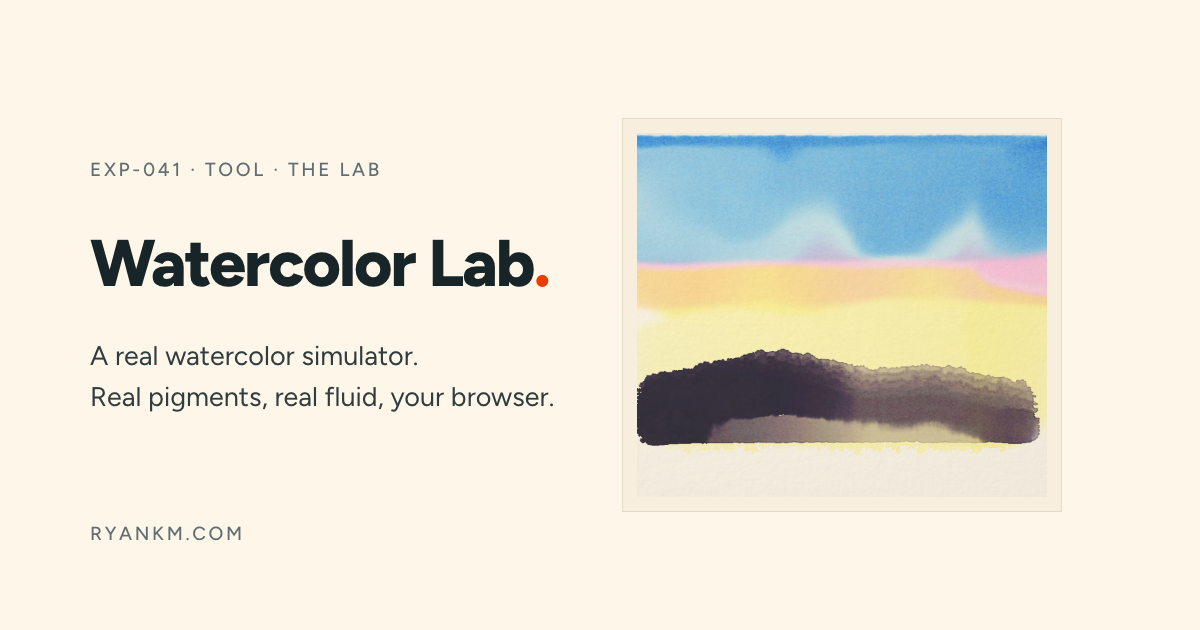
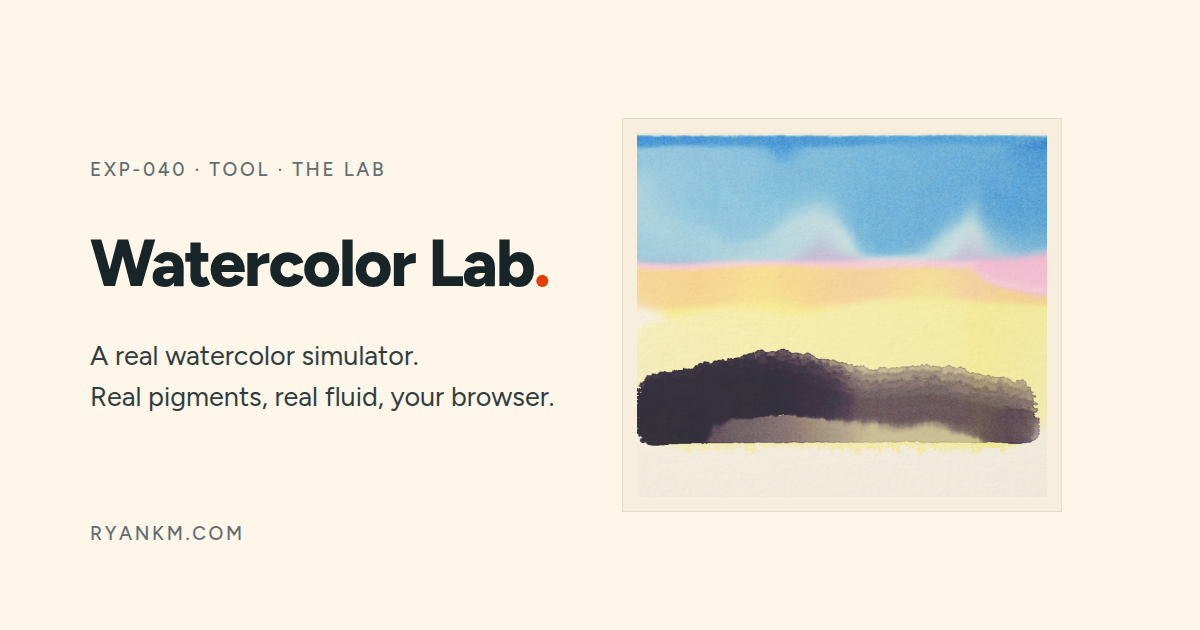
Renumber to EXP-040, closing the ledger gap
Shipped as EXP-041 with EXP-040 never assigned; Ryan called it before
the custom domain went live, so the number changes while nothing has
settled on it. Page chrome, metadata, README and the regenerated OG
card all say EXP-040 now; the session log keeps the old number as
history. 492 checks, typecheck and build green.

Claude-Session: https://claude.ai/code/session_01K7qmeTrMGgdLvWV4qkdXH8

Changed region(s): [[0.0617, 0.5429, 0.4625, 0.6635], [0.0925, 0.2413, 0.3392, 0.3016], [0.0925, 0.8143, 0.185, 0.8746]]

diff --git a/src/main.ts b/src/main.ts
@@ -14,7 +14,7 @@ declare global {
 }
 
 // --- The experiment page shell -------------------------------------------
-// This tool is EXP-041 in the Lab on ryankm.com and it is hosted here rather
+// This tool is EXP-040 in the Lab on ryankm.com and it is hosted here rather
 // than there, so the page has to do the work the site's /lab/<slug> route
 // normally does: the trail back up, the record voice (number, kind, state,
 // then the stack), the claim in display type, and the lede. Same order, same
@@ -24,7 +24,7 @@ function experimentHead(): HTMLElement {
   const meta = el(
     "div",
     { class: "exp-meta" },
-    el("span", { class: "label label-strong" }, "EXP-041"),
+    el("span", { class: "label label-strong" }, "EXP-040"),
     el("span", { class: "label" }, "tool"),
     el(
       "span",
@@ -115,7 +115,7 @@ function footer(): HTMLElement {
       el(
         "p",
         { class: "footer-credit" },
-        el("a", { class: "arrow-link", href: LAB_URL }, "EXP-041 in the Lab at ryankm.com", el("span", { "aria-hidden": "true" }, "→"))
+        el("a", { class: "arrow-link", href: LAB_URL }, "EXP-040 in the Lab at ryankm.com", el("span", { "aria-hidden": "true" }, "→"))
       )
     )
   );

diff --git a/index.html b/index.html
@@ -6,7 +6,7 @@
     <title>Watercolor Lab, a real watercolor simulator | Ryan McCarty</title>
     <meta
       name="description"
-      content="Paint with real pigments on real physics: shallow-water fluid dynamics after Curtis et al. (SIGGRAPH 1997) and Kubelka-Munk optics. Wet-on-wet, glazing, granulation, backruns, dry brush, salt. Runs entirely in your browser. EXP-041 in the Lab at ryankm.com."
+      content="Paint with real pigments on real physics: shallow-water fluid dynamics after Curtis et al. (SIGGRAPH 1997) and Kubelka-Munk optics. Wet-on-wet, glazing, granulation, backruns, dry brush, salt. Runs entirely in your browser. EXP-040 in the Lab at ryankm.com."
     />
     <link rel="canonical" href="https://watercolor.ryankm.com/" />
     <meta name="author" content="Ryan McCarty" />
@@ -42,7 +42,7 @@
         "@context": "https://schema.org",
         "@type": "SoftwareApplication",
         "name": "Watercolor Lab",
-        "alternateName": "EXP-041",
+        "alternateName": "EXP-040",
         "url": "https://watercolor.ryankm.com/",
         "applicationCategory": "DesignApplication",
         "operatingSystem": "Any browser with WebGL2",

diff --git a/src/styles.css b/src/styles.css
@@ -1,6 +1,6 @@
 /* Watercolor Lab, wearing the ryankm.com design system.
  *
- * This tool is EXP-041 in the Lab and is hosted on its own subdomain, so the
+ * This tool is EXP-040 in the Lab and is hosted on its own subdomain, so the
  * page does the work the site's /lab/<slug> route normally does: the trail
  * back up, the record voice (number, kind, state, then the stack), the claim
  * in display type, the lede, the experiment, then bench notes. Same order,

diff --git a/src/ui/chrome.ts b/src/ui/chrome.ts
@@ -1,7 +1,7 @@
 import { el } from "./dom";
 
 /**
- * The site chrome. This tool is EXP-041 in the Lab on ryankm.com and is
+ * The site chrome. This tool is EXP-040 in the Lab on ryankm.com and is
  * hosted off-site, so the bar is the only thing carrying the brand and the
  * only route home — same shape as every other experiment served from its own
  * subdomain.

diff --git a/docs/HANDOFF.md b/docs/HANDOFF.md
@@ -1,4 +1,4 @@
-# Handoff — Watercolor Lab (EXP-041)
+# Handoff — Watercolor Lab (EXP-040)
 
 For the next working session, starting fresh on a local desktop clone.
 Read this top to bottom before writing code; the README is the public story,
@@ -16,11 +16,14 @@ play and the queue.
   every PR gets a preview URL. Custom domain `watercolor.ryankm.com` is
   attached to the project and waits on DNS (see next steps). The old
   `fable-test` scratch project is disposable.
-- **The Lab index**: EXP-041 is listed at ryankm.com/lab (2026-08-19) as a
-  live off-site tool with its own card miniature, and it leads the shelf and
-  the home page's Lab stage. EXP-040 was never assigned; the portfolio's
-  `lib/data/lab.ts` records the gap rather than renumbering this deployed
-  page.
+- **The Lab index**: this experiment is listed at ryankm.com/lab
+  (2026-08-19) as a live off-site tool with its own card miniature, and it
+  leads the shelf and the home page's Lab stage.
+- **The number**: originally shipped as EXP-041 with EXP-040 unassigned;
+  renumbered to EXP-040 on Ryan's call (2026-08-19), before the custom
+  domain went live, so the ledger stays dense. Everything in this repo
+  (page chrome, metadata, README, OG card) says EXP-040; only
+  `docs/session-log.md` keeps the old number, as history.
 - **Local desktop**: `/Users/ryan/Developer/miniature-spork` on Ryan's Mac.
   Chrome is installed, the figure harness uses it (real GPU).
 

diff --git a/README.md b/README.md
@@ -10,7 +10,7 @@ Watercolor"](https://grail.cs.washington.edu/projects/watercolor/) (SIGGRAPH
 
 **Try it: [watercolor.ryankm.com](https://watercolor.ryankm.com/)** on a
 desktop browser with WebGL2 and a minute of playing with too much water.
-EXP-041 in [the Lab](https://ryankm.com/lab).
+EXP-040 in [the Lab](https://ryankm.com/lab).
 
 Vanilla TypeScript and Vite, zero runtime dependencies, no framework, no
 server, no analytics.
